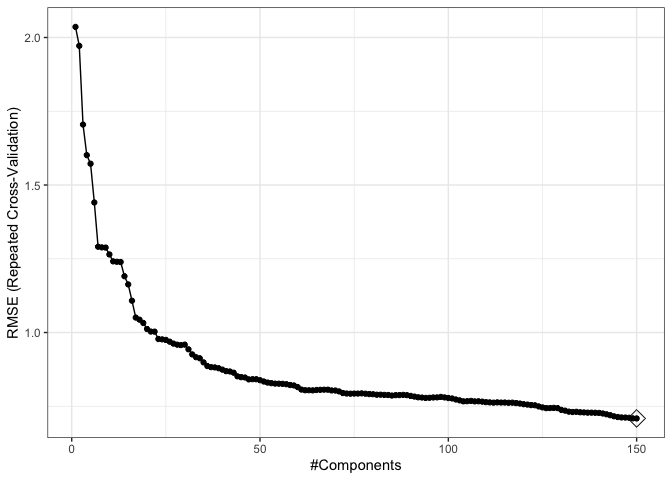
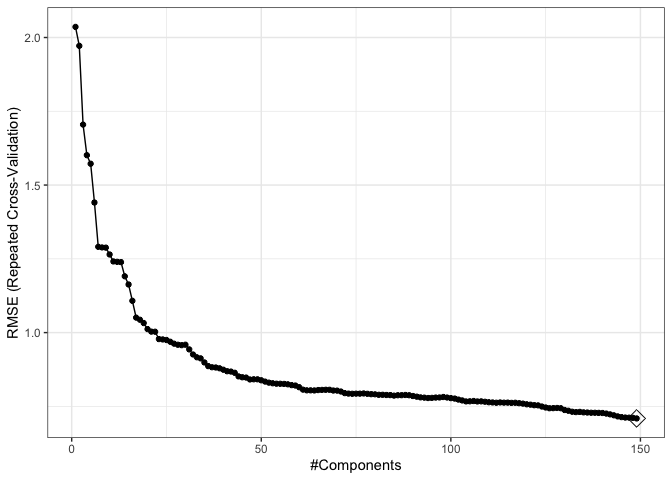
Final changes!

diff --git a/P8106_Ec3342_Hw1.md b/P8106_Ec3342_Hw1.md
@@ -10,7 +10,7 @@ library(ModelMetrics)
 library(glmnet)
 ```
 
-# Reading the Datasets
+Reading the Datasets
 
 ``` r
 train_data = read_csv(file = "./data/solubility_train.csv")
@@ -19,8 +19,8 @@ test_data = read_csv(file = "./data/solubility_test.csv")
 
 We will predict solubility of compounds using their chemical
 structures.The training data are in the file “solubilitytrain.csv” and
-the test data are in “solubil-itytest.csv”. Among the 228 predictors,
-208 are binary variables that indicate the presenceor absence of a
+the test data are in “solubilitytest.csv”. Among the 228 predictors, 208
+are binary variables that indicate the presenceor absence of a
 particular chemical substructure, 16 are count features, such as the
 numberof bonds or the number of bromine atoms, and 4 are continuous
 features, such as molecularweight or surface area. The response is in
@@ -30,7 +30,7 @@ the column “Solubility”.
 #Training data
 x_train = model.matrix(Solubility ~ ., train_data)[,-1]
 y_train = train_data$Solubility
-#Tese data
+#Test data
 x_test = model.matrix(Solubility ~ ., test_data)[,-1]
 y_test = test_data$Solubility
 
@@ -38,7 +38,10 @@ y_test = test_data$Solubility
 ctrl1 <- trainControl(method = "repeatedcv", number = 10, repeats = 5)
 ```
 
-# a) Fit a linear model using least squares on the training data and calculate the mean square error using the test data.
+1)  Fit a linear model using least squares on the training data and
+    calculate the mean square error using the test data.
+
+<!-- end list -->
 
 ``` r
 set.seed(2)
@@ -46,15 +49,17 @@ lm.fit <- train(x_train, y_train,
                 method = "lm",
                 trControl = ctrl1)
 pred.lm <- predict(lm.fit$finalModel, newdata = data.frame(x_test))
-mean((pred.lm - y_test)^2)
+mse(y_test,pred.lm)
 ```
 
     ## [1] 0.5558898
 
-The test mean square error is
-0.5558898.
+◆ The test mean square error is 0.5558898.
 
-# b) Fit a ridge regression model on the training data, with λ chosen by cross-validation.Report the test error.
+2)  Fit a ridge regression model on the training data, with λ chosen by
+    cross-validation.Report the test error.
+
+<!-- end list -->
 
 ``` r
 set.seed(2)
@@ -86,15 +91,18 @@ best_lambda
 ``` r
 ridge.pred = predict(ridge.fit$finalModel, s = best_lambda, newx = x_test) 
 #Using best lambda to predict test data
-mean((ridge.pred - y_test)^2)
+mse(y_test, ridge.pred)
 ```
 
     ## [1] 0.5134603
 
-The test error is
-0.5134603.
+◆ The test error is 0.5134603.
 
-# c) Fit a lasso model on the training data, with λ chosen by cross-validation. Report the test error, along with the number of non-zero coefficient estimates.
+3)  Fit a lasso model on the training data, with λ chosen by
+    cross-validation. Report the test error, along with the number of
+    non-zero coefficient estimates.
+
+<!-- end list -->
 
 ``` r
 set.seed(2)
@@ -120,12 +128,12 @@ best_lambda_lasso
 ``` r
 lasso.pred = predict(lasso.fit$finalModel, s = best_lambda_lasso, newx = x_test) 
 #Using best lambda to predict test data
-mean((lasso.pred - y_test)^2)
+mse(y_test, lasso.pred)
 ```
 
     ## [1] 0.4987333
 
-The test error is 0.4987
+◆ The test error is 0.4987333
 
 ``` r
 lasso.coef <- coef(lasso.fit$finalModel,lasso.fit$bestTune$lambda)
@@ -140,35 +148,41 @@ length(lasso.coef[lasso.coef != 0])
 
     ## [1] 144
 
-There are 144 non-zero coefficient
-estimates.
+◆ There are 144 non-zero coefficient estimates.
 
-# d) Fit a principle component regression model on the training data, with M chosen by cross-validation. Report the test error, along with the value of M selected by cross-validation.
+4)  Fit a principle component regression model on the training data,
+    with M chosen by cross-validation. Report the test error, along with
+    the value of M selected by cross-validation.
+
+<!-- end list -->
 
 ``` r
 set.seed(2)
 pcr.fit <- train(x_train, y_train,
                   method = "pcr",
-                  tuneLength = 150,
+                  tuneLength = 149,
                   trControl = ctrl1,
                   scale = TRUE)
 
 predy.pcr <- predict(pcr.fit$finalModel, newdata = x_test, 
                        ncomp = pcr.fit$bestTune$ncomp)
-mean((predy.pcr - y_test)^2)
+mse(y_test, predy.pcr)
 ```
 
-    ## [1] 0.5483713
+    ## [1] 0.540555
 
 ``` r
 ggplot(pcr.fit, highlight = TRUE) + theme_bw()
 ```
 
-![](P8106_Ec3342_Hw1_files/figure-gfm/unnamed-chunk-12-1.png)<!-- -->
-The test error is
-0.5483713.
+![](P8106_Ec3342_Hw1_files/figure-gfm/unnamed-chunk-12-1.png)<!-- --> ◆
+The test error is 0.540555 ◆ The value of M selected by cross validation
+is 149.
 
-# e) Briefly discuss the results obtained in (a)∼(d).
+5)  Briefly discuss the results obtained in
+(a)∼(d).
+
+<!-- end list -->
 
 ``` r
 resamp <- resamples(list(lasso = lasso.fit, ridge = ridge.fit, pcr = pcr.fit, lm = lm.fit))
@@ -186,32 +200,33 @@ summary(resamp)
     ##            Min.   1st Qu.    Median      Mean   3rd Qu.      Max. NA's
     ## lasso 0.4252298 0.4840513 0.5177887 0.5173336 0.5484913 0.6385859    0
     ## ridge 0.4236514 0.4901614 0.5218728 0.5213242 0.5473545 0.6319687    0
-    ## pcr   0.4288747 0.5071586 0.5462737 0.5419025 0.5818077 0.6600831    0
+    ## pcr   0.4324539 0.5072261 0.5466597 0.5426985 0.5809145 0.6606165    0
     ## lm    0.4151018 0.5042577 0.5288620 0.5304540 0.5607729 0.6838928    0
     ## 
     ## RMSE 
     ##            Min.   1st Qu.    Median      Mean   3rd Qu.      Max. NA's
     ## lasso 0.5582277 0.6414335 0.6701683 0.6775176 0.7145061 0.8331316    0
     ## ridge 0.5547163 0.6488957 0.6786781 0.6856755 0.7234002 0.8333606    0
-    ## pcr   0.5648038 0.6758325 0.7190553 0.7088013 0.7451357 0.8632726    0
+    ## pcr   0.5640148 0.6711085 0.7188954 0.7091304 0.7449607 0.8618922    0
     ## lm    0.5763256 0.6702141 0.7006166 0.7093576 0.7470323 0.9234601    0
     ## 
     ## Rsquared 
     ##            Min.   1st Qu.    Median      Mean   3rd Qu.      Max. NA's
     ## lasso 0.8372380 0.8774330 0.8947011 0.8904805 0.9047275 0.9283355    0
     ## ridge 0.8326964 0.8764872 0.8908486 0.8880644 0.9001630 0.9264558    0
-    ## pcr   0.8190896 0.8664793 0.8838414 0.8807491 0.8948763 0.9293462    0
+    ## pcr   0.8184227 0.8683917 0.8840107 0.8806591 0.8942654 0.9284906    0
     ## lm    0.8105782 0.8668429 0.8844072 0.8814378 0.8966132 0.9313096    0
 
 ``` r
 bwplot(resamp, metric = "RMSE")
 ```
 
-![](P8106_Ec3342_Hw1_files/figure-gfm/unnamed-chunk-13-1.png)<!-- --> As
-we can see from the graph, the minimum RMSE is for Lasso followed by
-Ridge and Linear model. The PCR has the maximum RMSE.
+![](P8106_Ec3342_Hw1_files/figure-gfm/unnamed-chunk-13-1.png)<!-- -->
 
-# f) Which model will you choose for predicting solubility?
+As we can see from the graph, the minimum RMSE is for Lasso followed by
+Ridge model. The Linear model and the PCR has the maximum RMSE.
+
+6)  Which model will you choose for predicting solubility?
 
 Since, the RMSE is the lowest for Lasso, we should choose the Lasso
 model to predict solubility.
